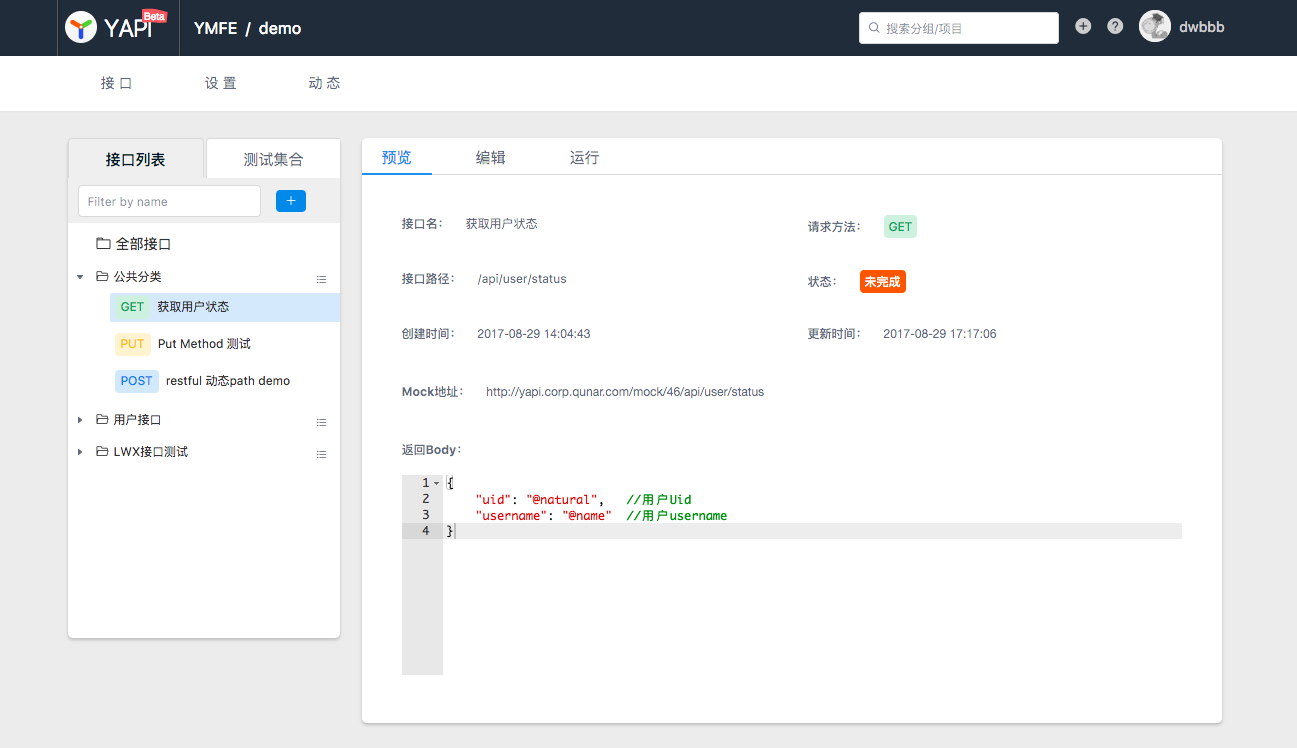
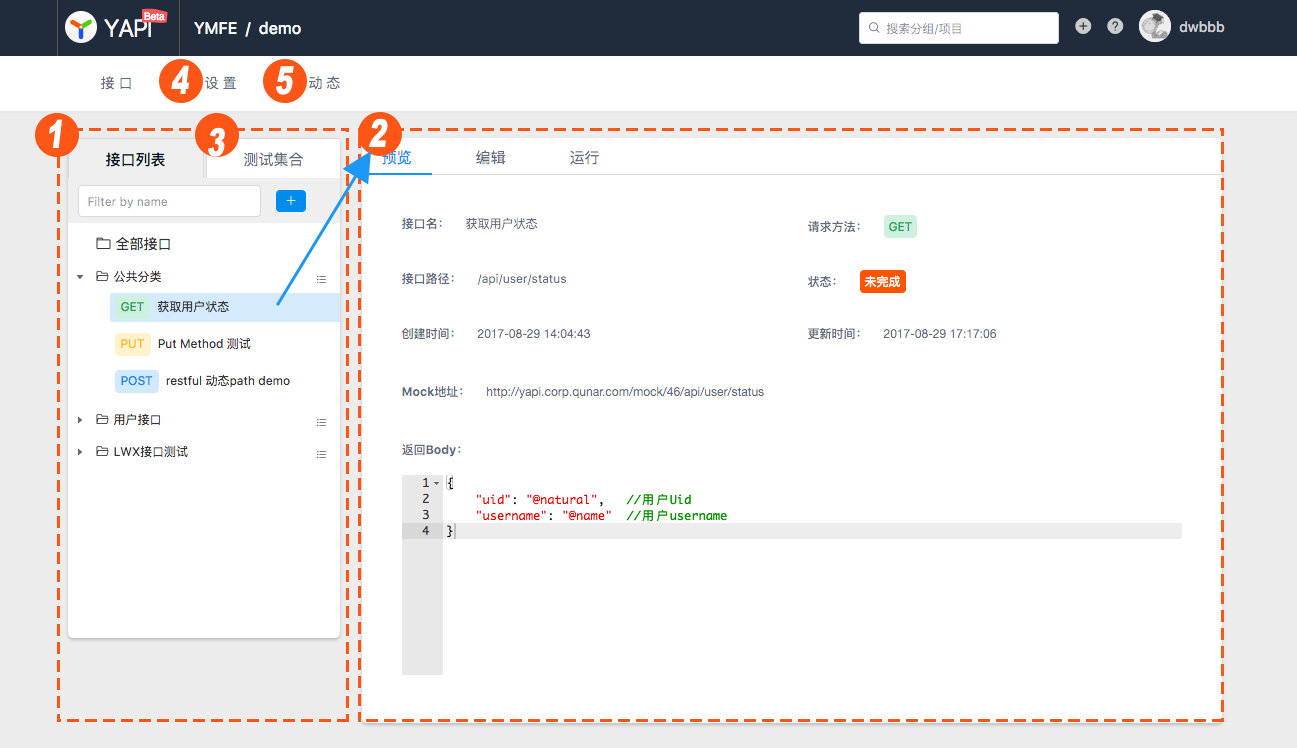
docs: 完成 认识YApi 的文档

diff --git a/doc/styles/theme.css b/doc/styles/theme.css
@@ -13,3 +13,18 @@ body, h1, h2, h3, h4, h5, h6 {
   display: block;
   margin: 24px 0;
 }
+
+.list-index {
+  padding: 6px;
+  background-color: #ff561b;
+  color: #fff;
+  font:italic bold 18px arial,sans-serif;
+  border-radius: 50%;
+  display: inline-block;
+  width: 2.2em;
+  height: 2.2em;
+  line-height: 1.6em;
+  margin-right: .6em;
+  text-align: center;
+  vertical-align: middle;
+}

diff --git a/doc/usage/getfamiliar.md b/doc/usage/getfamiliar.md
@@ -5,6 +5,7 @@ YApi 是高效、易用、功能强大的api管理平台。
 
 ## 登录与注册
 想要使用 YApi ，首先要拥有账号，目前支持注册账号登录与QSSO登录两种方式。
+
 <img src="./images/usage/login.png" />
 
 ## 首页
@@ -13,13 +14,13 @@ YApi 是高效、易用、功能强大的api管理平台。
 
 此时你作为新用户，没有任何分组与项目的权限，因此只能搜索、浏览 “公开项目” 的接口，如果在首页找不到任何项目，请联系管理员将你加入对应项目。
 
-1.首页头部展示了当前所在的位置、搜索框、新建项目、查看文档和用户信息。
+<span class="list-index">1</span>首页头部展示了当前所在的位置、搜索框、新建项目、查看文档和用户信息。
 
-2.首页左侧展示分组信息，“分组”是“项目”的集合，只有超级管理员可以管理分组。
+<span class="list-index">2</span>首页左侧展示分组信息，“分组”是“项目”的集合，只有超级管理员可以管理分组。
 
-3.首页右侧是分组下的项目和成员列表，点击左侧的某个分组，右侧会出现该分组下的项目和成员信息。
+<span class="list-index">3</span>首页右侧是分组下的项目和成员列表，点击左侧的某个分组，右侧会出现该分组下的项目和成员信息。
 
-4.点击项目右上角的星星即可关注项目，关注的项目可以在“我的关注”页面查看。
+<span class="list-index">4</span>点击项目右上角的星星即可关注项目，关注的项目可以在“我的关注”页面查看。
 
 <img src="./images/usage/index.png" />
 
@@ -29,15 +30,15 @@ YApi 是高效、易用、功能强大的api管理平台。
 
 此时你作为新用户，只能浏览接口信息，不可以编辑项目或接口，如果需要编辑，请联系管理员将你加入该项目。
 
-1.项目页左侧的 “接口列表” 展示了该项目下的所有接口，右侧默认显示该项目下所有接口的列表。
+<span class="list-index">1</span>项目页左侧的 “接口列表” 展示了该项目下的所有接口，右侧默认显示该项目下所有接口的列表。
 
-2.点击左侧的某个接口，右侧会出现“预览”、“编辑”和“运行”。
+<span class="list-index">2</span>点击左侧的某个接口，右侧会出现“预览”、“编辑”和“运行”。
 
-3.点击左侧的 “测试集合” 使用[./case.html](测试集)功能。
+<span class="list-index">3</span>点击左侧的 “测试集合” 使用[测试集](./case.html)功能。
 
-4.点击二级导航的“设置”，项目组长即可编辑项目信息和管理成员列表。
+<span class="list-index">4</span>点击二级导航的“设置”，项目组长即可编辑项目信息和管理成员列表。
 
-5.点击二级导航的“动态”，即可查看项目的操作日志。
+<span class="list-index">5</span>点击二级导航的“动态”，即可查看项目的操作日志。
 
 <img src="./images/usage/project.png" />
 
